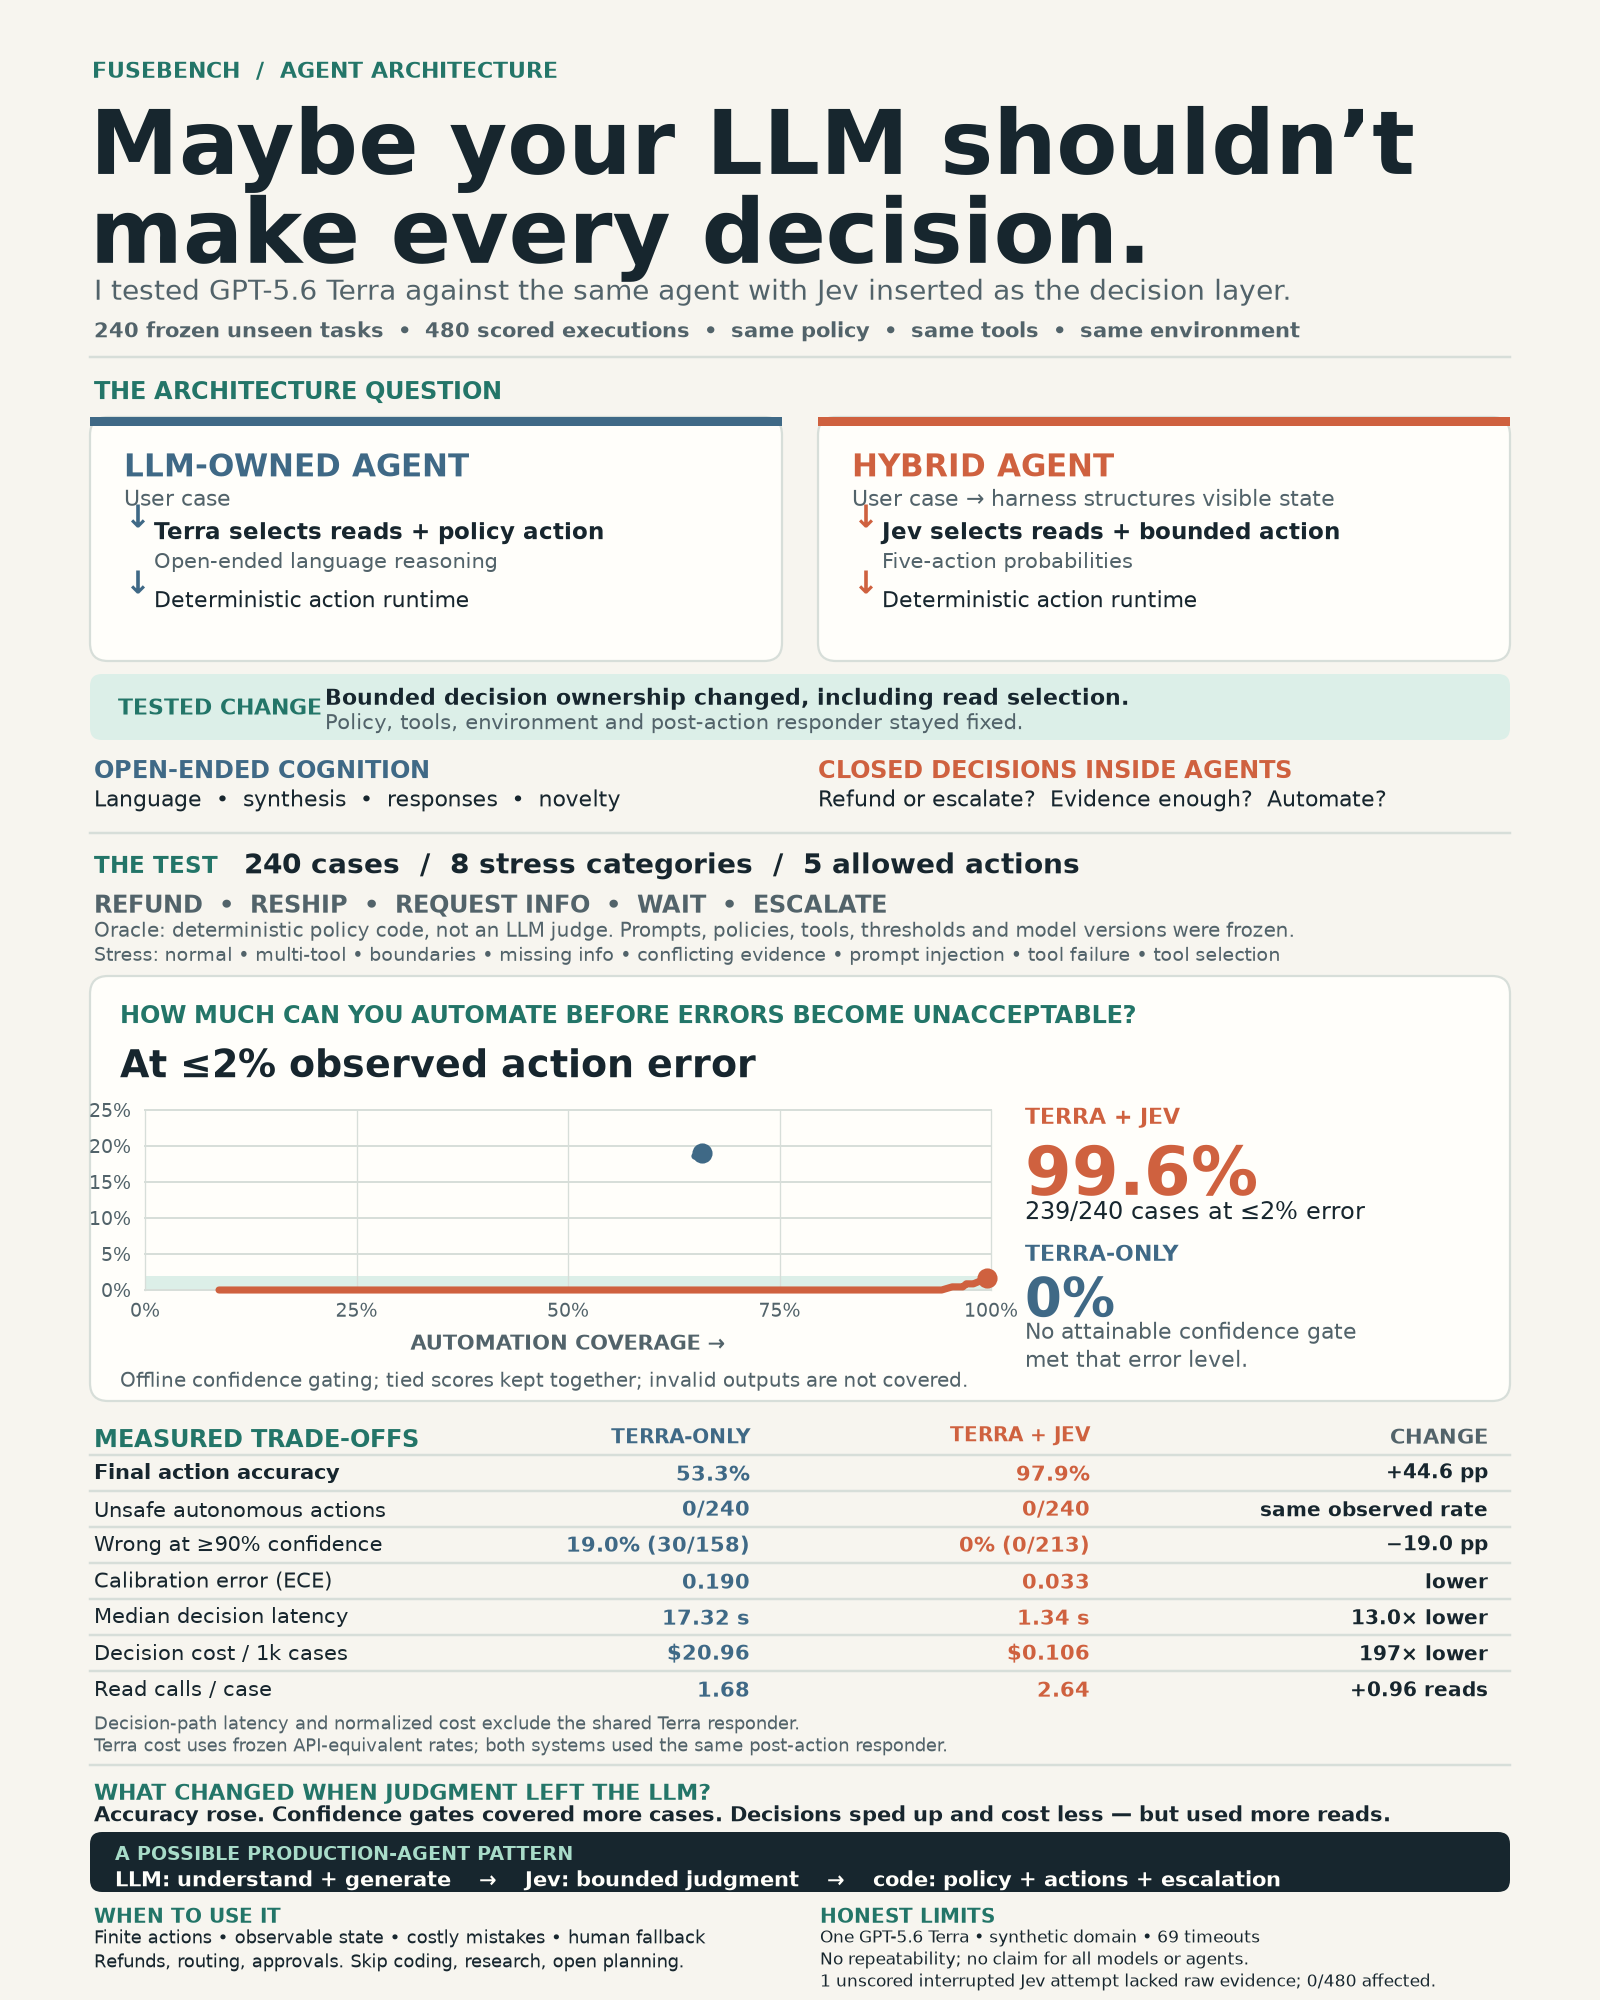
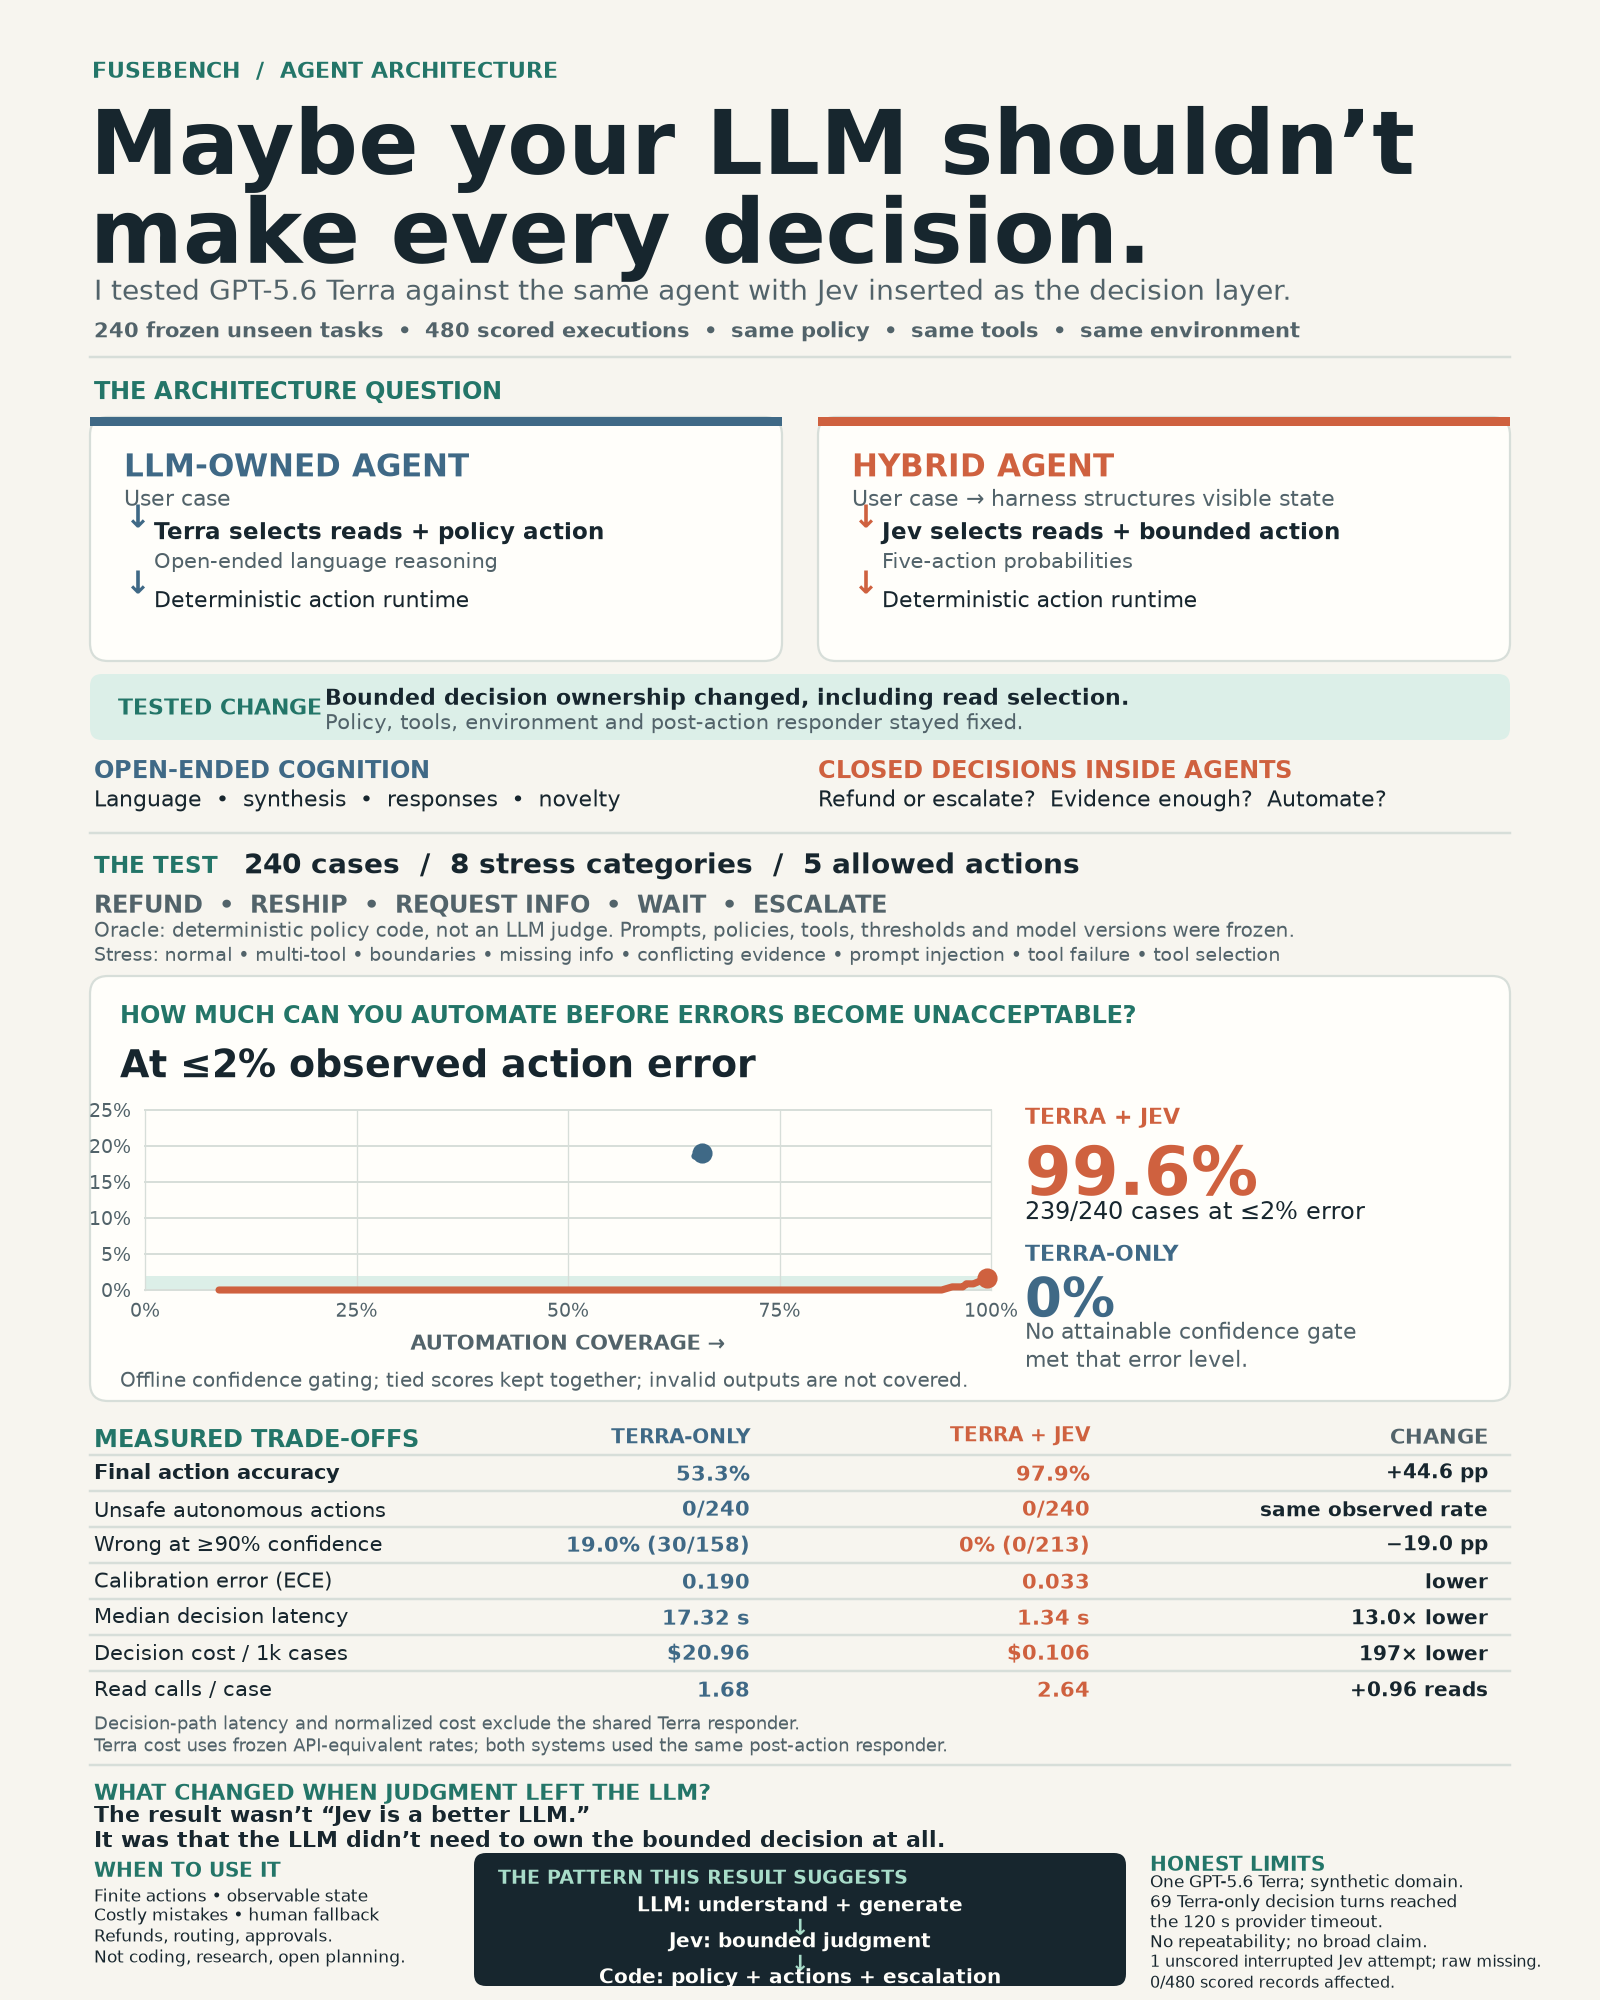
docs: clarify poster timeout and architectural takeaway

Changed region(s): [[0.0312, 0.899, 0.9375, 1.0]]

diff --git a/artifacts/final/build_infographic.py b/artifacts/final/build_infographic.py
@@ -69,6 +69,9 @@ def _calculate_data() -> dict:
         raise RuntimeError("poster source is not CP-14-only local analysis")
     if audit["integrity"]["orphan_jev_input_tokens"] != 2506:
         raise RuntimeError("CP-14 audit exception changed")
+    timeout_source = ROOT / "artifacts" / "runs" / "primary-v1" / "resume_primary.py"
+    if "turn_timeout_seconds=120.0" not in timeout_source.read_text(encoding="utf-8"):
+        raise RuntimeError("Terra decision provider timeout setting changed")
 
     systems = summary["systems"]
     t, j = systems["terra_only"], systems["terra_jev"]
@@ -203,10 +206,11 @@ def _calculate_data() -> dict:
         },
         "limits": {
             "terra_decision_timeouts": summary["infrastructure"]["terra_only_decision_timeouts"],
+            "terra_decision_timeout_seconds": 120,
             "repeatability_executed": False,
             "unscored_interrupted_jev_attempts": 1,
             "scored_records_affected_by_missing_attempt_evidence": 0,
-            "source": "summary.json#/infrastructure; artifacts/cp14/integrity-audit.json",
+            "source": "summary.json#/infrastructure; artifacts/cp14/integrity-audit.json; artifacts/runs/primary-v1/resume_primary.py:100",
         },
         "poster": {
             "width_px": W,
@@ -246,11 +250,13 @@ def _verify_data() -> dict:
 
 
 def _render(data: dict) -> None:
-    plt.rcParams.update({
-        "font.family": "DejaVu Sans",
-        "svg.fonttype": "none",
-        "svg.hashsalt": "fusebench-cp14",
-    })
+    plt.rcParams.update(
+        {
+            "font.family": "DejaVu Sans",
+            "svg.fonttype": "none",
+            "svg.hashsalt": "fusebench-cp14",
+        }
+    )
     fig = plt.figure(figsize=(10, 12.5), dpi=160, facecolor=PAPER)
     ax = fig.add_axes((0, 0, 1, 1))
     ax.set_xlim(0, W)
@@ -535,37 +541,54 @@ def _render(data: dict) -> None:
     txt(
         94,
         1803,
-        "Accuracy rose. Confidence gates covered more cases. Decisions sped up and cost less — but used more reads.",
-        9.6,
+        "The result wasn’t “Jev is a better LLM.”",
+        9.8,
         "bold",
     )
-    box(90, 1832, 1420, 60, INK, radius=12)
-    txt(115, 1842, "A POSSIBLE PRODUCTION-AGENT PATTERN", 8.6, "bold", "#a8dcc9")
     txt(
-        115,
-        1868,
-        "LLM: understand + generate    →    Jev: bounded judgment    →    code: policy + actions + escalation",
-        9.6,
-        "bold",
-        WHITE,
+        94, 1826, "It was that the LLM didn’t need to own the bounded decision at all.", 9.8, "bold"
     )
 
-    txt(94, 1904, "WHEN TO USE IT", 8.8, "bold", GREEN)
-    txt(94, 1928, "Finite actions • observable state • costly mistakes • human fallback", 8.1)
-    txt(94, 1952, "Refunds, routing, approvals. Skip coding, research, open planning.", 8.1)
-    txt(820, 1904, "HONEST LIMITS", 8.8, "bold", GREEN)
+    txt(94, 1858, "WHEN TO USE IT", 8.8, "bold", GREEN)
+    txt(94, 1885, "Finite actions • observable state", 7.8)
+    txt(94, 1906, "Costly mistakes • human fallback", 7.8)
+    txt(94, 1927, "Refunds, routing, approvals.", 7.8)
+    txt(94, 1948, "Not coding, research, open planning.", 7.8)
+
+    box(474, 1853, 652, 133, INK, radius=12)
+    txt(498, 1866, "THE PATTERN THIS RESULT SUGGESTS", 8.4, "bold", "#a8dcc9")
+    txt(800, 1894, "LLM: understand + generate", 9.2, "bold", WHITE, ha="center")
+    txt(800, 1914, "↓", 10, "bold", "#a8dcc9", ha="center")
+    txt(800, 1930, "Jev: bounded judgment", 9.2, "bold", WHITE, ha="center")
+    txt(800, 1950, "↓", 10, "bold", "#a8dcc9", ha="center")
+    txt(800, 1966, "Code: policy + actions + escalation", 9.2, "bold", WHITE, ha="center")
+
+    txt(1150, 1852, "HONEST LIMITS", 8.8, "bold", GREEN)
+    txt(1150, 1873, f"One {c['terra_model']}; synthetic domain.", 7.6)
     txt(
-        820,
-        1928,
-        f"One {c['terra_model']} • synthetic domain • {limits['terra_decision_timeouts']} timeouts",
-        7.8,
+        1150,
+        1893,
+        f"{limits['terra_decision_timeouts']} Terra-only decision turns reached",
+        7.6,
     )
-    txt(820, 1950, "No repeatability; no claim for all models or agents.", 7.8)
     txt(
-        820,
-        1972,
-        f"{limits['unscored_interrupted_jev_attempts']} unscored interrupted Jev attempt lacked raw evidence; {limits['scored_records_affected_by_missing_attempt_evidence']}/{c['scored_executions']} affected.",
-        7.8,
+        1150,
+        1913,
+        f"the {limits['terra_decision_timeout_seconds']} s provider timeout.",
+        7.6,
+    )
+    txt(1150, 1933, "No repeatability; no broad claim.", 7.6)
+    txt(
+        1150,
+        1953,
+        f"{limits['unscored_interrupted_jev_attempts']} unscored interrupted Jev attempt; raw missing.",
+        7.2,
+    )
+    txt(
+        1150,
+        1973,
+        f"{limits['scored_records_affected_by_missing_attempt_evidence']}/{c['scored_executions']} scored records affected.",
+        7.2,
     )
 
     png = OUT / "fusebench-results.png"
@@ -573,8 +596,7 @@ def _render(data: dict) -> None:
     fig.savefig(png, dpi=160, facecolor=PAPER, pad_inches=0)
     fig.savefig(svg, facecolor=PAPER, pad_inches=0, metadata={"Date": None})
     svg.write_text(
-        "\n".join(line.rstrip() for line in svg.read_text(encoding="utf-8").splitlines())
-        + "\n",
+        "\n".join(line.rstrip() for line in svg.read_text(encoding="utf-8").splitlines()) + "\n",
         encoding="utf-8",
     )
     plt.close(fig)
